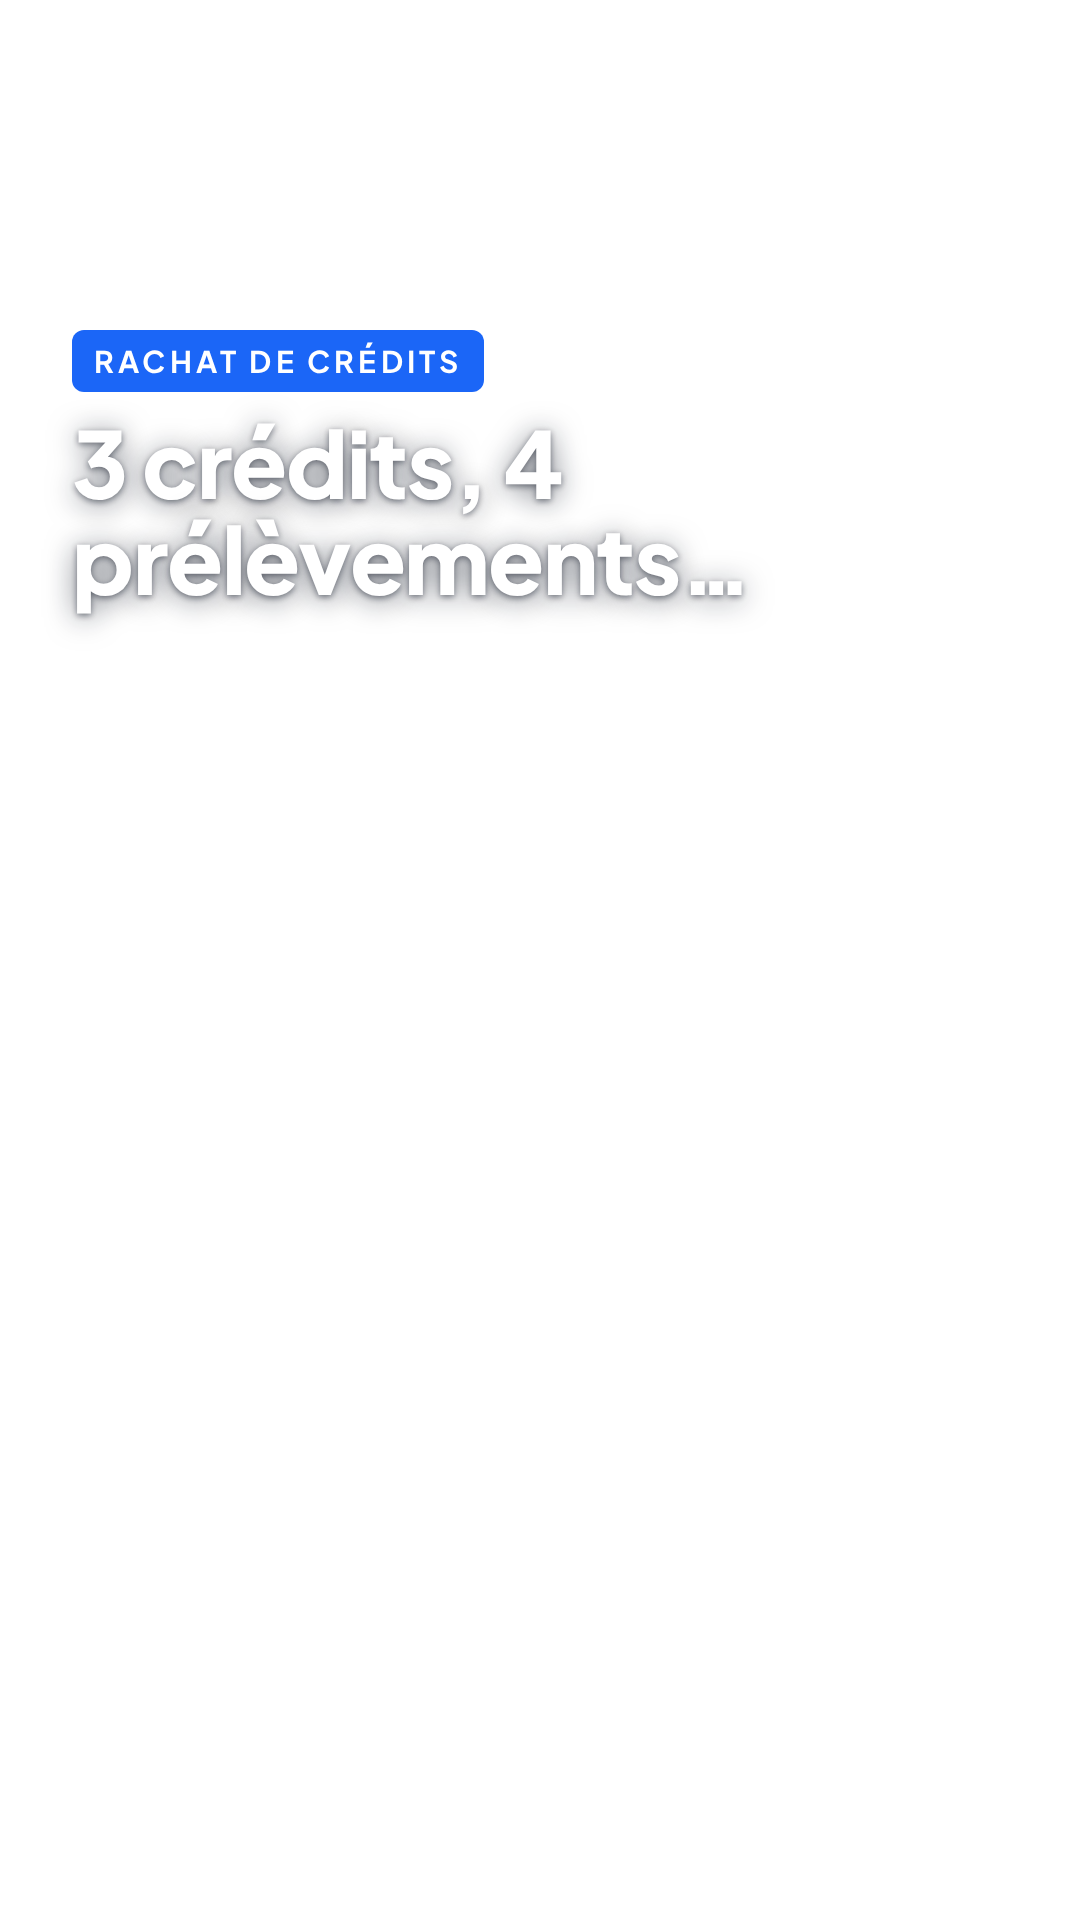
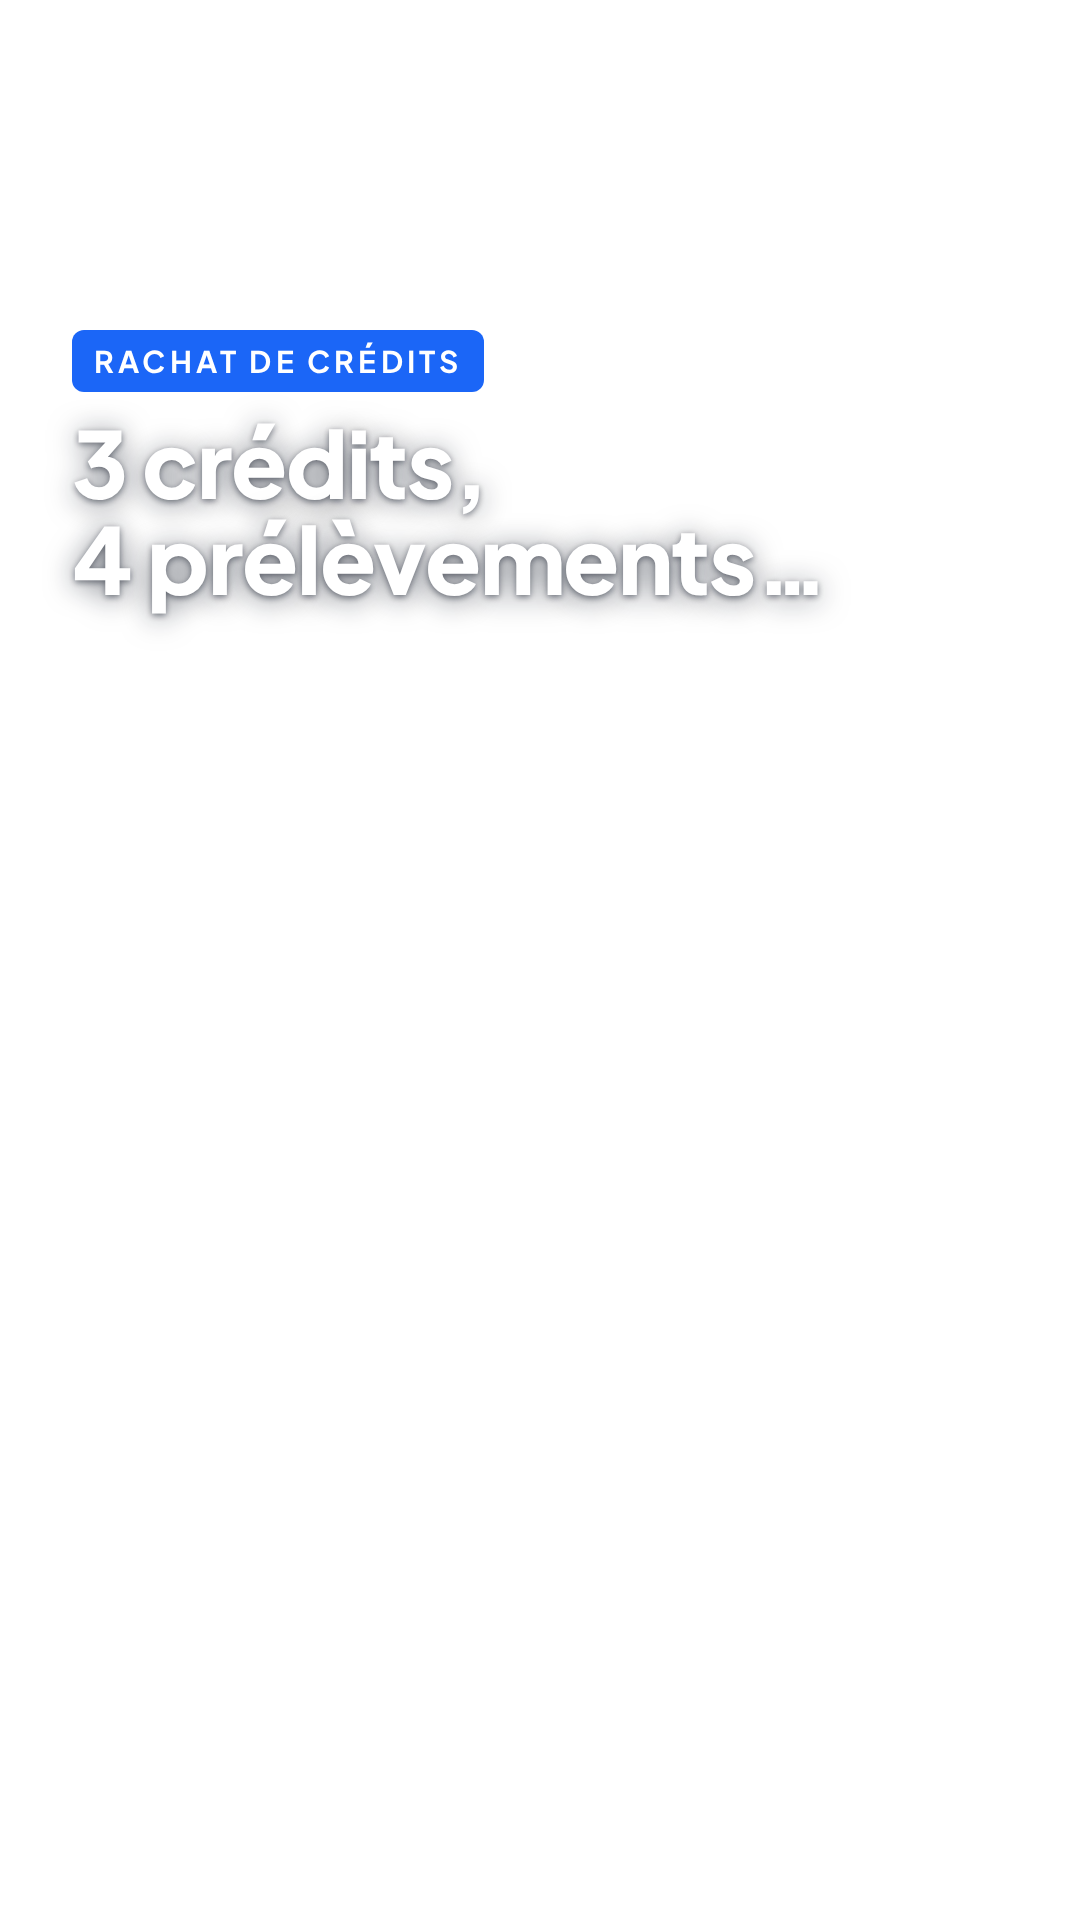
Vidéo crédit : carte de fin avec mentions lisibles, accroche sur deux lignes
Claude-Session: https://claude.ai/code/session_01HE9oMBS2e9MbG6PnEeRscp

Changed region(s): [[0.275, 0.2188, 0.7639, 0.3125], [0.0611, 0.25, 0.2444, 0.3438]]

diff --git a/tools/video_calques.py b/tools/video_calques.py
@@ -14,7 +14,7 @@ if not os.path.isdir(os.path.join(fdir, 'package')):
     subprocess.run('npm pack @fontsource/plus-jakarta-sans@5.0.20 >/dev/null 2>&1 && tar xzf fontsource-plus-jakarta-sans-5.0.20.tgz', shell=True, cwd=fdir, check=True)
 F = os.path.join(fdir, 'package', 'files', 'plus-jakarta-sans-latin-%s-normal.woff2')
 ff = ''.join("@font-face{font-family:J;font-weight:%s;src:url('file://%s')}" % (w, F % w) for w in (500, 700, 800))
-img = os.path.join(ROOT, 'dist', 'img'); E = html.escape
+img = os.path.join(ROOT, 'dist', 'img'); E = lambda t: html.escape(t).replace('\n', '<br>')
 CSS = ff + """body{margin:0;background:transparent} .r{width:1080px;height:1920px;position:relative;font-family:J,sans-serif;color:#fff;overflow:hidden}
 .blk{position:absolute;left:72px;right:150px}
 .k{display:inline-block;background:#1B66F7;color:#fff;font-weight:700;font-size:30px;letter-spacing:.14em;text-transform:uppercase;padding:12px 22px;border-radius:12px}
@@ -40,7 +40,7 @@ for i in range(1, len(c['liste']) + 1):
     items = ''.join(f'<div class="it">{CK}<span>{E(x)}</span></div>' for x in c['liste'][:i])
     pages['liste%d' % i] = f'<div class="blk" style="top:300px"><div class="card"><h3>{E(c.get("liste_titre","À vérifier"))}</h3>{items}</div></div>'
 fin = f"""<img src="file://{img}/y-blanc.svg" style="position:absolute;height:2300px;right:-560px;top:-200px;opacity:.11;filter:blur(3px)">
-<div style="position:absolute;left:90px;right:90px;top:400px">
+<div style="position:absolute;left:90px;right:90px;top:{300 if c.get('fin_mentions') else 400}px">
 <img src="file://{img}/logo-blanc.svg" style="width:360px">
 <div style="margin-top:90px;font-size:100px;line-height:1.02;font-weight:800;letter-spacing:-.015em">{E(c.get('fin_titre','Bilan gratuit'))}</div>
 <div style="margin-top:26px;font-size:44px;line-height:1.3;font-weight:500;color:#EAF1FE">{E(c.get('fin_sous_titre',''))}</div>
@@ -48,7 +48,7 @@ fin = f"""<img src="file://{img}/y-blanc.svg" style="position:absolute;height:23
 <div style="margin-top:40px;font-size:40px;font-weight:700">eloy-assurances-patrimoine.fr</div>
 <div style="margin-top:110px;padding-top:34px;border-top:2px solid rgba(255,255,255,.4);font-size:32px;font-weight:700;letter-spacing:.04em;color:#EAF1FE">Assurance · Rachat de crédits · Financement professionnel</div>
 <div style="margin-top:12px;font-size:30px;font-weight:500;color:#EAF1FE">Martinique · Guadeloupe · Guyane</div>
-{f'<div style="margin-top:36px;font-size:29px;line-height:1.35;font-weight:600;color:#fff;background:rgba(11,18,32,.28);padding:22px 26px;border-radius:16px">{E(c["fin_mentions"])}</div>' if c.get('fin_mentions') else ''}</div>"""
+{f'<div style="margin-top:36px;font-size:27px;line-height:1.35;font-weight:600;color:#fff;background:rgba(11,18,32,.28);padding:20px 24px;border-radius:16px">{E(c["fin_mentions"])}</div>' if c.get('fin_mentions') else ''}</div>"""
 with sync_playwright() as pw:
     b = pw.chromium.launch()
     for name, body in list(pages.items()) + [('fin', None)]:
